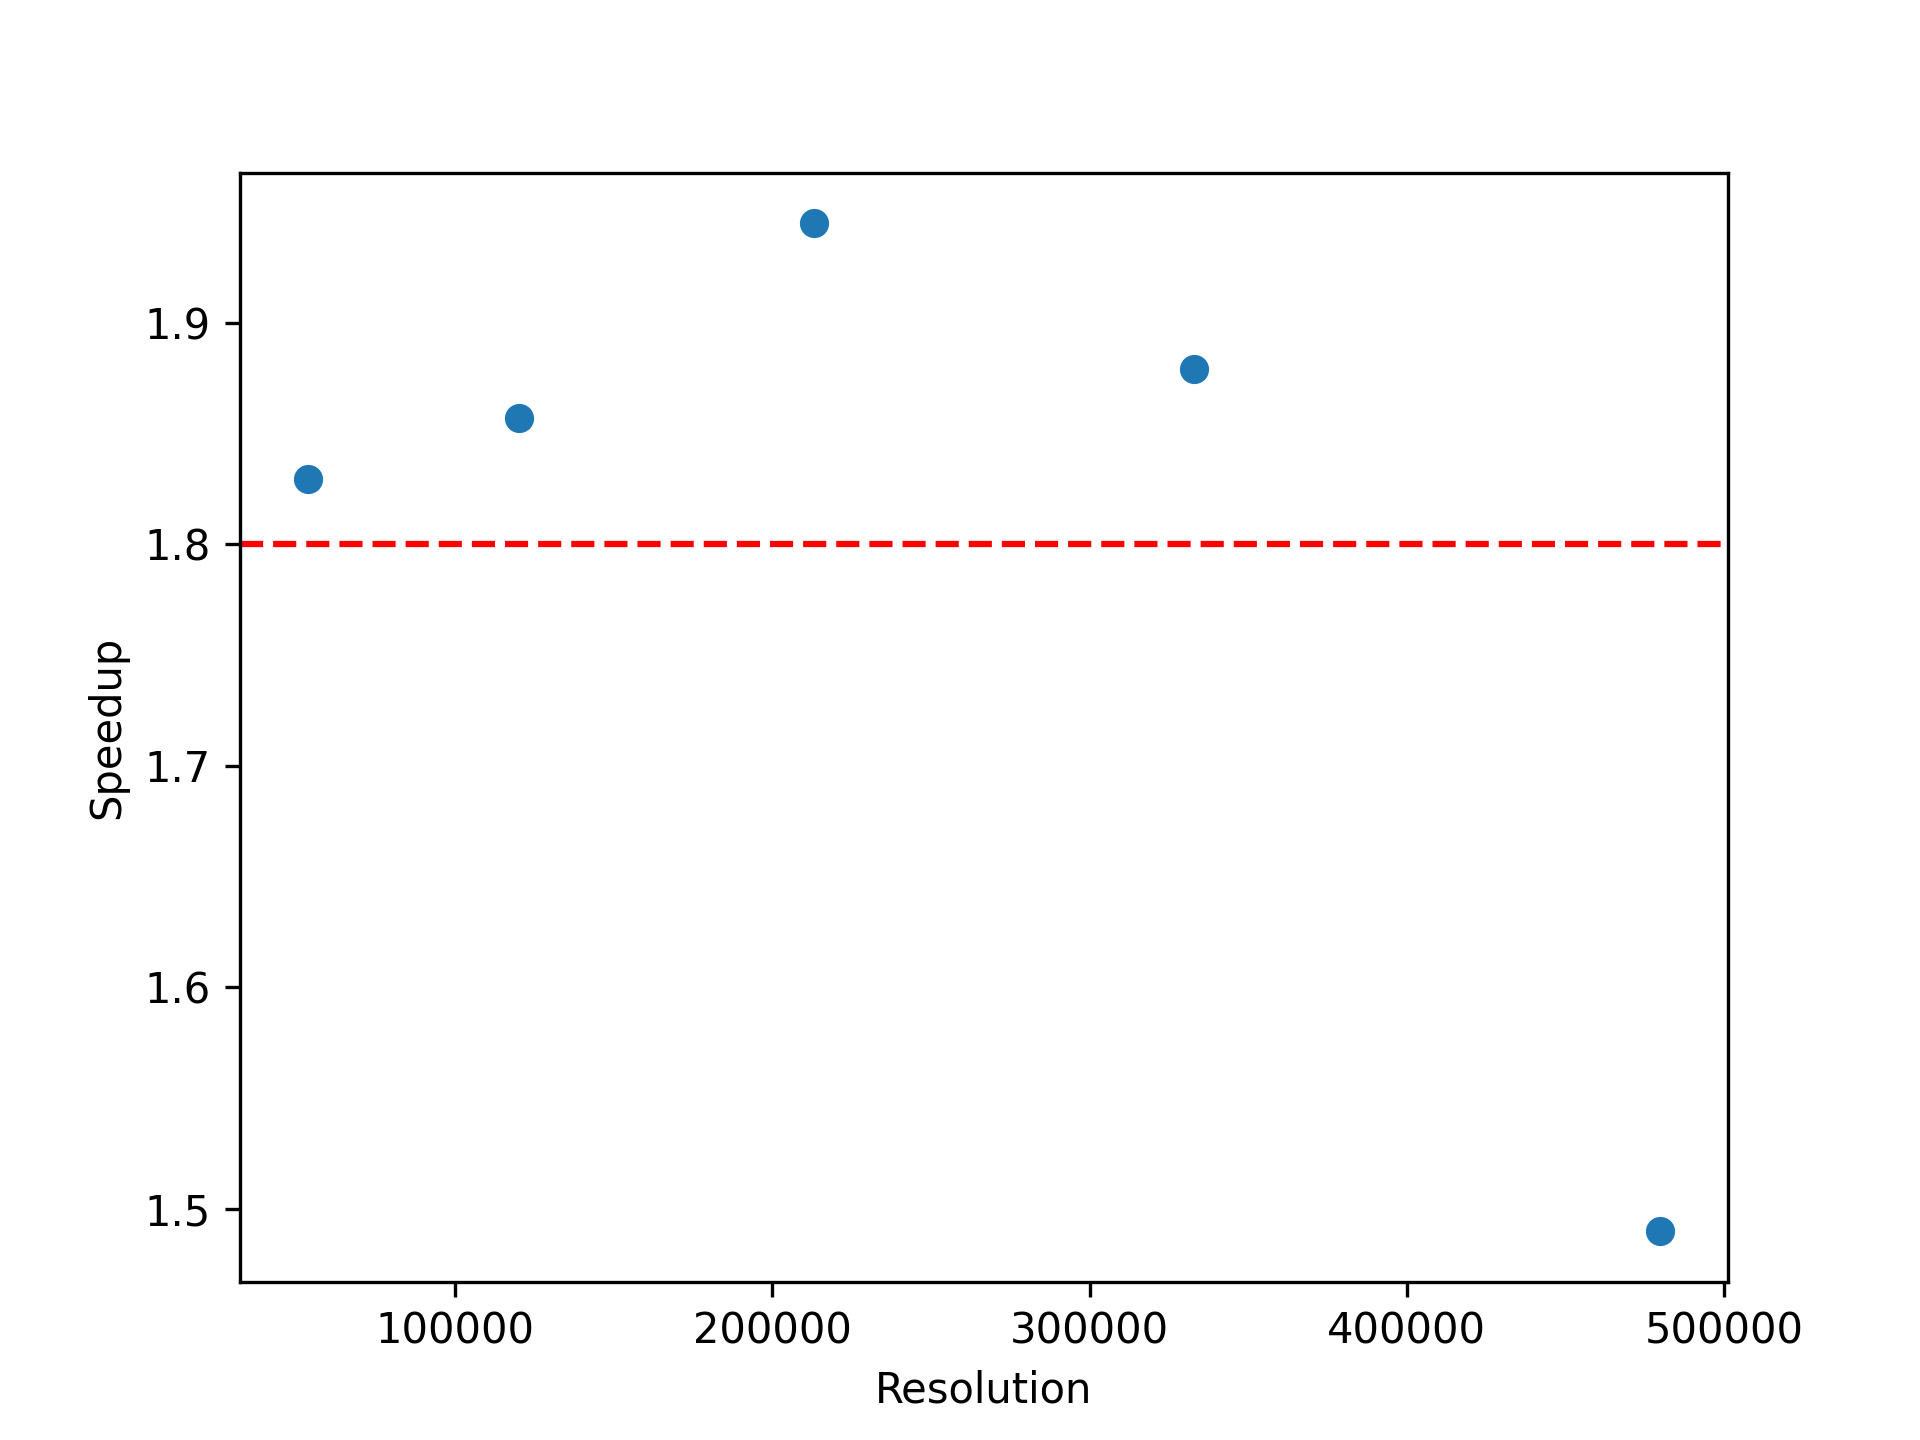
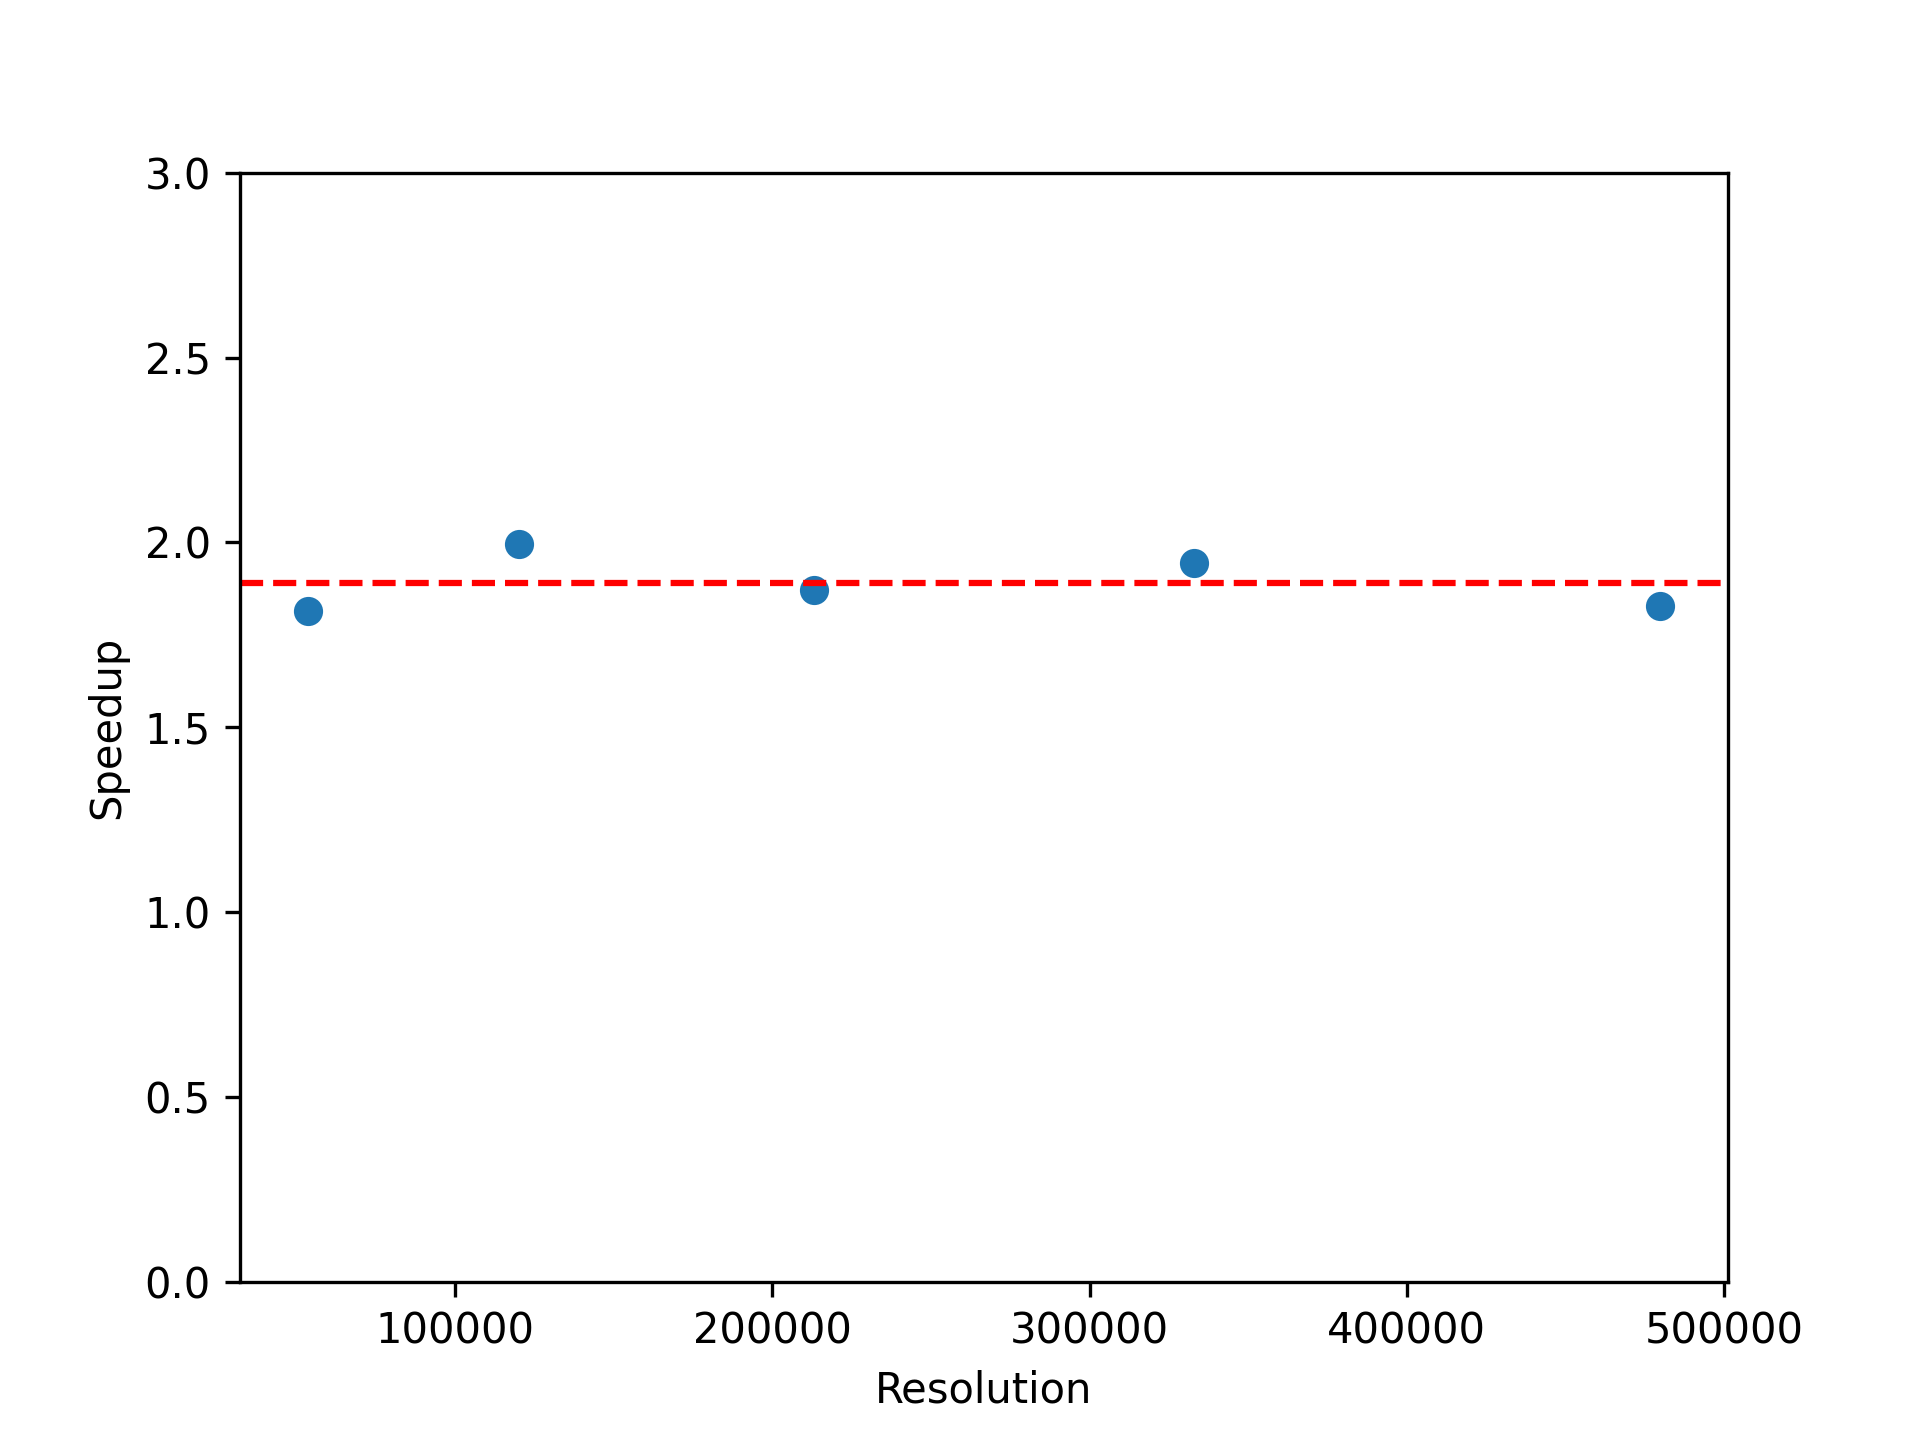
refactoring

diff --git a/algorithms/TDESequentialAlgorithm.c b/algorithms/TDESequentialAlgorithm.c
@@ -15,11 +15,11 @@ int main()
     }
 
     char filenames[5][100] = {
-        "./images/image200.pbm",
-        "./images/image300.pbm",
-        "./images/image400.pbm",
-        "./images/image500.pbm",
-        "./images/image600.pbm"
+        "../images/image200.pbm",
+        "../images/image300.pbm",
+        "../images/image400.pbm",
+        "../images/image500.pbm",
+        "../images/image600.pbm"
     };
 
 

diff --git a/analysis/analysis.py b/analysis/analysis.py
@@ -88,8 +88,11 @@ def main():
 
     plt.figure()
     
+    plt.ylim(0, 3)
+    
     plt.plot(resolutions, speedup, 'o', label = 'Data')
     
+
     plt.xlabel("Resolution")
     plt.ylabel("Speedup")
     plt.axhline(y=mean, color='r', linestyle='--', label = 'Mean Speedup')
